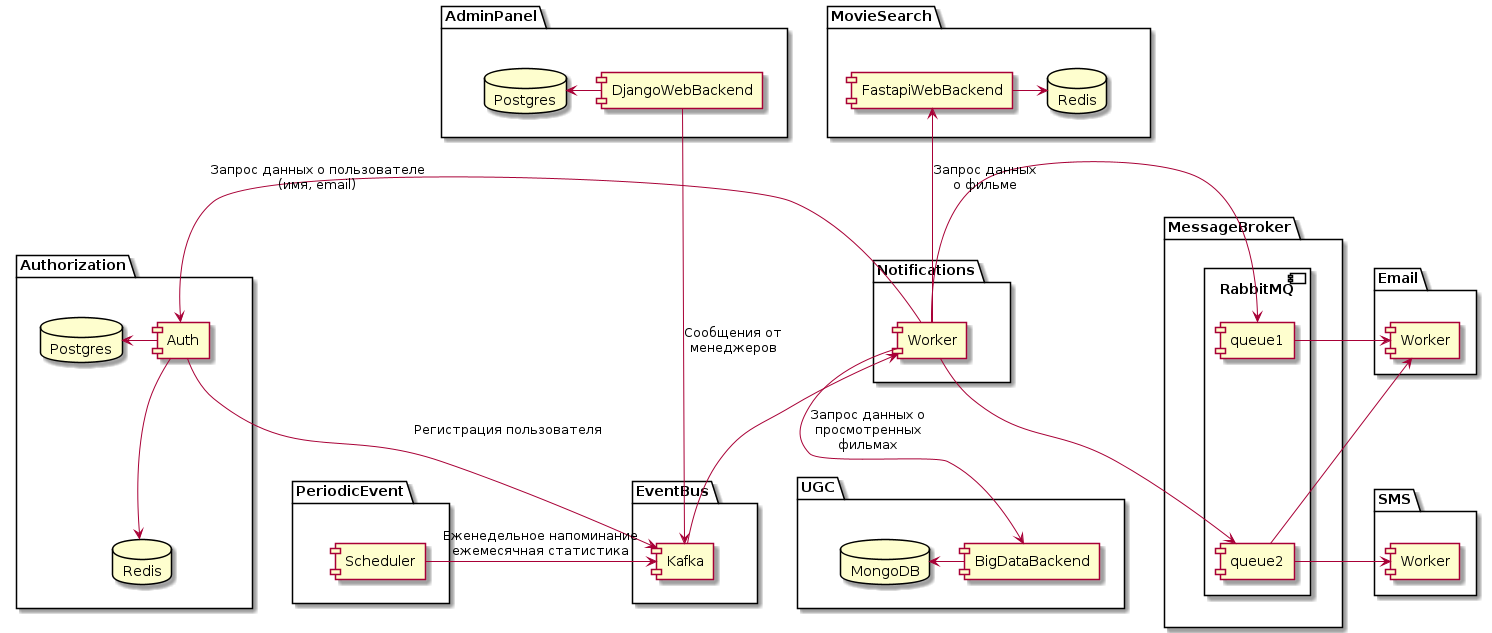
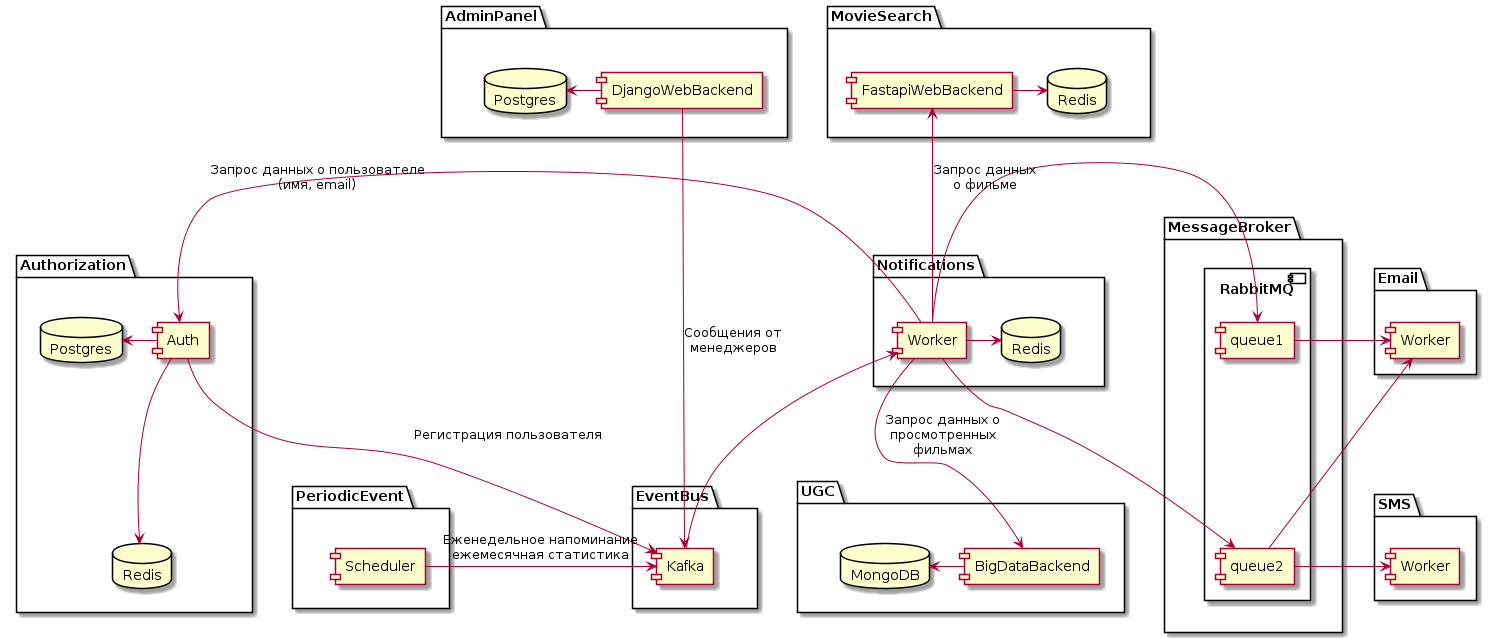
added detailes to diagram

diff --git a/README.md b/README.md
@@ -12,3 +12,10 @@ https://github.com/AlexanderNkn/notifications_sprint_1
 
 ### Работа в 10 спринте
 ![Архитектура сервисов нотификации](docs/architecture/notifications_architecture.png)
+
+### Описание диаграммы
+Сервисы по результатам своей работы отправляют события в общую шину событий. Например сервис scheduler может выставить событие, что пора сделать еженедельное напоминание пользователям о кинотеатре. Сервис auth может сообщить, что зарегистрировался новый пользователь. Менеджер через админ-панель сообщает, что вышел новый сериал. Любое событие каждый сервис не зависимо друг от друга шлет в общую шину событий (в данном случае в kafka).
+Сервис нотификаций слушает соотвествующие топики и при наступлении события вызывает функцию-обработчик этого конкретного события. Функция обработчик сначала обращается в auth за данными пользователей, которым нужно выслать оповещение, затем в остальные сервисы за связанными данными. К примеру, чтобы подготовить ежемесячную статистику, нужно по user_id в сервисе ugc найти все просмотренные этим пользователем фильмы за последний месяц, а по полученным из ugc идентификаторам movie_id из сервиса movies-api выгрузить жанры фильмов. Тогда в статистике будет понятно, какие жанры предпочитал смотреть пользователь последний месяц.
+В зависимости от таймзоны пользователя, может потребоваться отправить сообщение через некоторое время. В этом случае, идентификаторы пользователей, сгруппированные по таймзонам, помещаются в redis, а сервис нотификаций ставит в scheduler новый план - перезапустить определенную задачу через определенное время. Но на этот раз сервис нотификаций будет использовать только списки пользователей, соответствующие таймзоне задачи (по ключу запросит из redis)
+Сообщения, готовые к отправке, сервис нотификаций выставляет в очередь rabbitmq и добавляет шаблон, который нужно использовать при рассылке. При необходимости срочные сообщения можно выкладывать в отдельную очередь и обрабатывать ее бОльшим количеством воркеров.
+Воркер забирает сообщение из очереди, помещает данные в шаблон (используем Jinja2) и отправляет письмо. 
